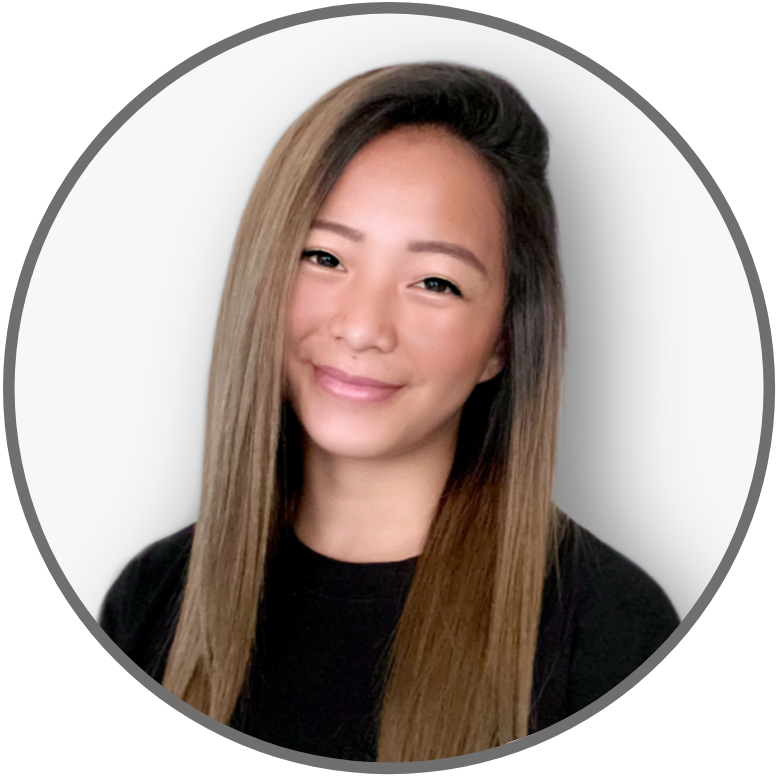
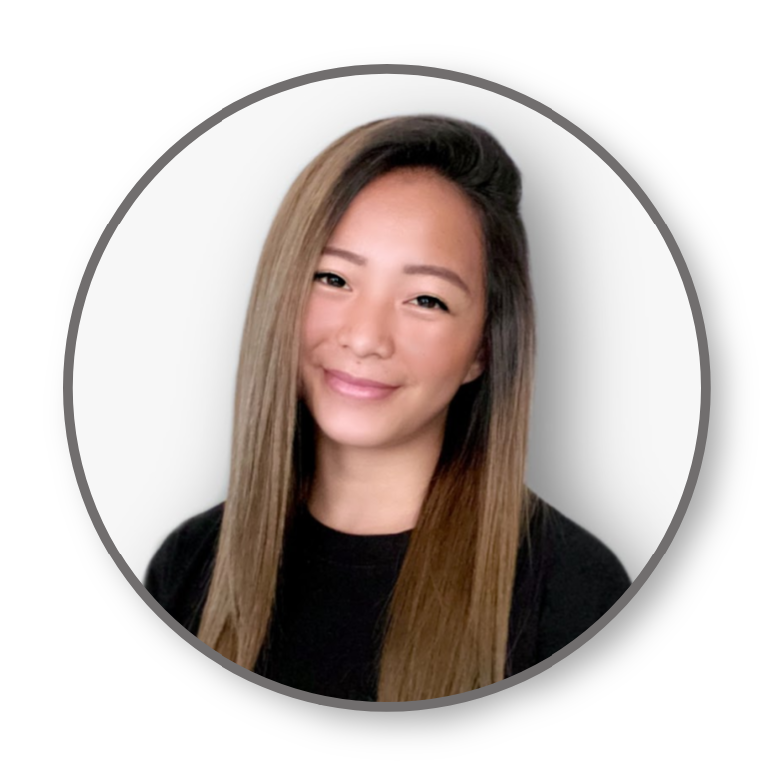
baby steps

diff --git a/src/Components/AboutMe.js b/src/Components/AboutMe.js
@@ -1,19 +1,32 @@
-import React from 'react';
+import React, {useEffect} from 'react';
+import Aos from 'aos';
+import "aos/dist/aos.css";
 
 const AboutMe = () => {
     const photo = require("../Visuals/Photo.png");
 
+    useEffect(() => {
+        Aos.init({ duration: 1300 });
+      }, []);
+
     return(
         <div id="about-me"> 
-            <div className="standard">
+            <div data-aos="fade-up" className="container">
                 <div className="title">
-                    About Me
+                    <h1>About Me</h1>
                 </div>
-                <div>
-                    <img className="photo" src={photo} alt="April"/>
-                </div>
-                <div className="description">
-                    Hi there, my name is April Escobar. Welcome to my portfolio
+                <div className="row">
+                    <div className="col-sm">
+                        <div id="photo">
+                            <img className="photo" src={photo} alt="April"/>
+                        </div>
+                    </div>
+                    <div className="col-md">
+                        <div className="description">
+                            Hi there, my name is April Escobar. I worked in the fashion idustry for over 9 years.
+                            I've always had an interest in efficiency and organizing.
+                        </div>
+                    </div>
                 </div>
             </div>
         </div>

diff --git a/src/Style.css b/src/Style.css
@@ -3,8 +3,8 @@
 }
 
 #about-me{
-    height: 50vh;
-    background-color: pink;
+    min-height: 50vh;
+    background-color: whitesmoke
 }
 
 #projects{
@@ -18,16 +18,24 @@
 }
 
 #connect{
-    height: 30vh;
+    min-height: 30vh;
     background-color: paleturquoise;
 }
 
 body{
-    background: url(https://wallpapertag.com/wallpaper/full/2/6/0/283037-download-free-marble-background-2048x1347-xiaomi.jpg) no-repeat center center fixed;
+    background: url(https://github.com/aprilfaithdays/Portfolio/blob/master/src/Visuals/Background.png) no-repeat center center fixed;
     background-size: cover;
     height: 100%;
     font-family: 'Alegreya Sans', sans-serif;
     font-size: 20px;
+    font-weight: 200;
+}
+
+ /* ********* Welcome ********* */
+
+.container{
+    padding-top: 1.5%;
+    padding-bottom: 5%;
 }
 
 .welcome{
@@ -47,13 +55,23 @@ body{
     font-size: 25px;
 }
 
-.standard{
-    height: 50vh;
-    background-color: honeydew;
+.title{
+    text-align: center;
+    margin-bottom: 3%;
+}
+
+#photo{
+    text-align: center;
+    margin-bottom: 2%;
+    
 }
 
 .photo{
-    width: 200px;
+    width: 70%;
     height: auto;
 }
 
+.description{
+    margin-top: 10%;
+    /* background-color: lavender; */
+}

diff --git a/src/App.js b/src/App.js
@@ -6,7 +6,7 @@ import Projects from './Containers/Projects';
 import Resume from './Components/Resume';
 import Connect from './Components/Connect';
 
-function App() {
+const App = () => {
   return (
     <div>
       <Welcome/>
